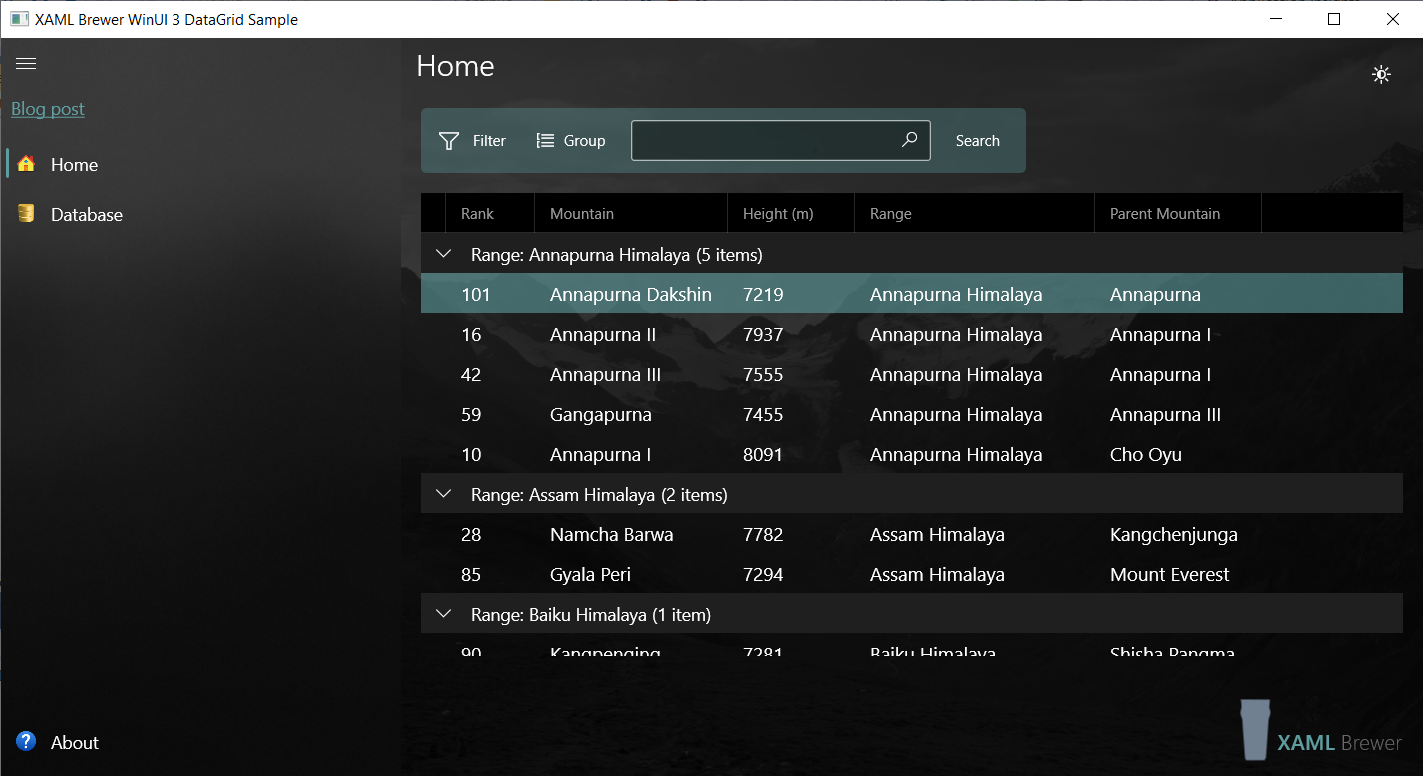
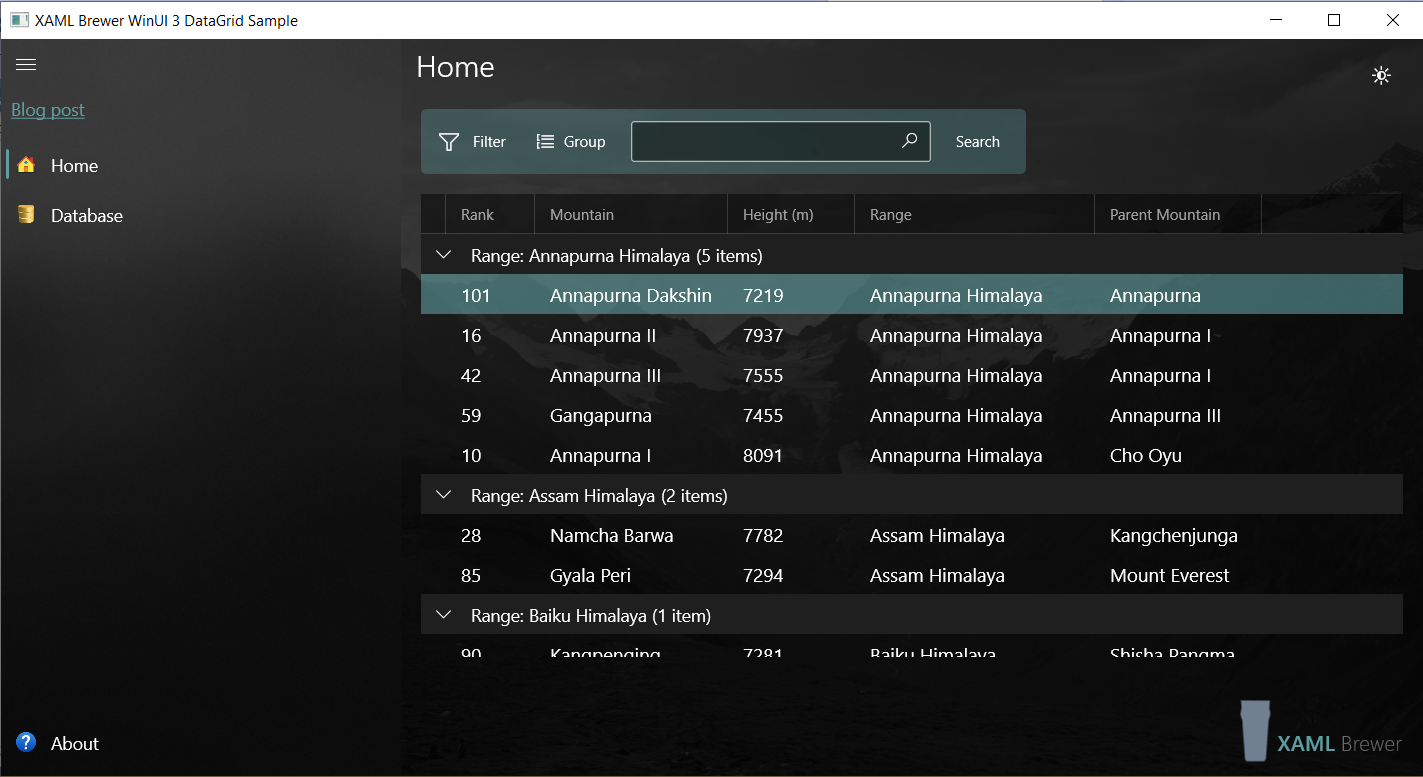
Lowered opacity of column header background

diff --git a/XamlBrewer.WinUI3.DataGrid.Sample/XamlBrewer.WinUI3.DataGrid.Sample/App.xaml b/XamlBrewer.WinUI3.DataGrid.Sample/XamlBrewer.WinUI3.DataGrid.Sample/App.xaml
@@ -5,6 +5,18 @@
              RequestedTheme="Dark">
     <Application.Resources>
         <ResourceDictionary>
+            <!--<ResourceDictionary.ThemeDictionaries>
+                <ResourceDictionary x:Key="Dark">
+                    <SolidColorBrush x:Key="DataGridColumnHeaderBackgroundBrush"
+                                     Color="Black"
+                                     Opacity=".5" />
+                </ResourceDictionary>
+                <ResourceDictionary x:Key="Light">
+                    <SolidColorBrush x:Key="DataGridColumnHeaderBackgroundBrush"
+                                     Color="White"
+                                     Opacity=".5" />
+                </ResourceDictionary>
+            </ResourceDictionary.ThemeDictionaries>-->
             <ResourceDictionary.MergedDictionaries>
                 <XamlControlsResources xmlns="using:Microsoft.UI.Xaml.Controls" />
                 <!-- Other merged dictionaries here -->

diff --git a/XamlBrewer.WinUI3.DataGrid.Sample/XamlBrewer.WinUI3.DataGrid.Sample/Views/HomePage.xaml b/XamlBrewer.WinUI3.DataGrid.Sample/XamlBrewer.WinUI3.DataGrid.Sample/Views/HomePage.xaml
@@ -136,6 +136,10 @@
                           RowDetailsTemplate="{StaticResource RowDetailsTemplate}"
                           RowDetailsVisibilityMode="VisibleWhenSelected"
                           Grid.Row="1">
+            <ctWinUI:DataGrid.Resources>
+                <SolidColorBrush x:Key="DataGridColumnHeaderBackgroundBrush"
+                                 Opacity=".5" />
+            </ctWinUI:DataGrid.Resources>
             <ctWinUI:DataGrid.Columns>
                 <ctWinUI:DataGridTextColumn Header="Rank"
                                             Binding="{Binding Rank}"

diff --git a/XamlBrewer.WinUI3.DataGrid.Sample/XamlBrewer.WinUI3.DataGrid.Sample/Views/DatabasePage.xaml b/XamlBrewer.WinUI3.DataGrid.Sample/XamlBrewer.WinUI3.DataGrid.Sample/Views/DatabasePage.xaml
@@ -142,6 +142,8 @@
                           Grid.Row="1">
             <ctWinUI:DataGrid.Resources>
                 <services:SliderValueConverter x:Key="SliderValueConverter" />
+                <SolidColorBrush x:Key="DataGridColumnHeaderBackgroundBrush"
+                                 Opacity=".5" />
             </ctWinUI:DataGrid.Resources>
             <ctWinUI:DataGrid.Columns>
                 <ctWinUI:DataGridTextColumn Header="Rank"
